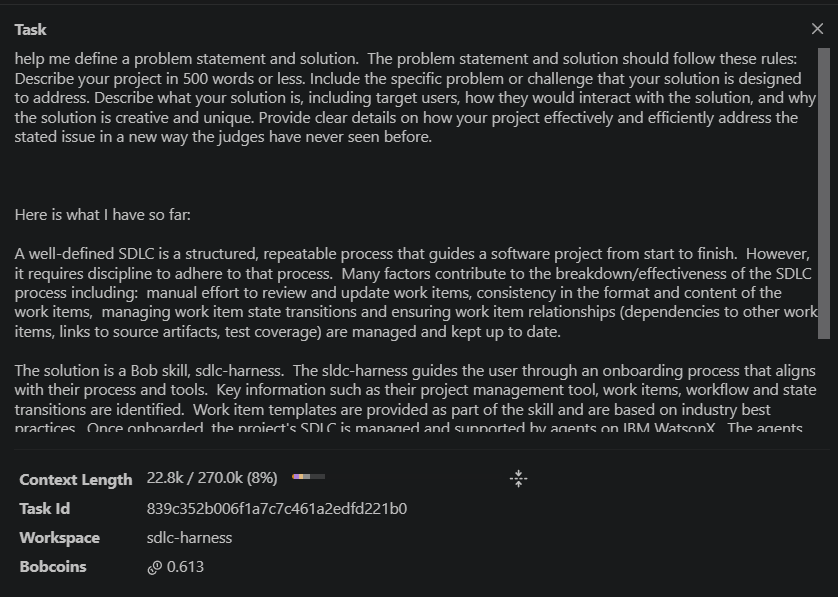
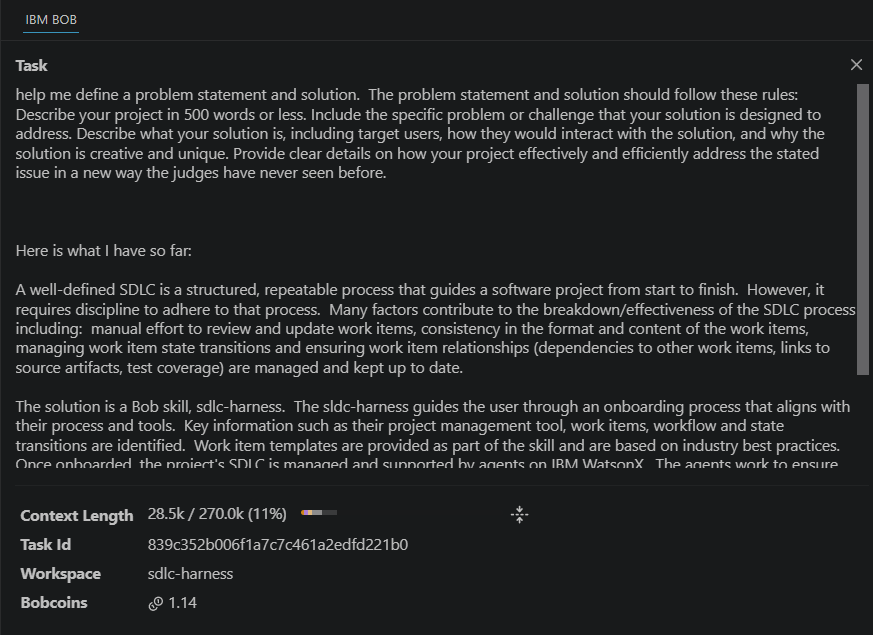
problem and todo updates

diff --git a/PROBLEM_STATEMENT.md b/PROBLEM_STATEMENT.md
@@ -20,4 +20,4 @@ Most governance tools are reactive. They flag a missing field after a developer 
 
 ## Measuring Success
 
-Success is visible in three places. First, backlog quality: fewer work items missing acceptance criteria, fewer vague descriptions reaching active development, fewer broken dependency links surfacing during audits or handoffs. Second, trust: if developers accept more agent suggestions over time rather than editing or rejecting them, the system is learning team conventions and earning its place. If the acceptance rate stagnates, the agents are adding noise instead of removing it. Third, time: how much less of each sprint do developers and product managers spend manually cleaning up work items? How quickly can a team produce a traceable, audit-ready picture of a release? Those are the exact costs named above, and they should be shrinking sprint over sprint.
+Success is visible in three places. First, backlog quality: fewer work items missing acceptance criteria, fewer vague descriptions reaching active development, fewer broken dependency links surfacing during audits or handoffs, and fewer stories or bugs transitioning to Done without a corresponding test link. Second, trust: if developers accept more agent suggestions over time rather than editing or rejecting them, the system is learning team conventions and earning its place. If the acceptance rate stagnates, the agents are adding noise instead of removing it. Third, time: how much less of each sprint do developers and product managers spend manually cleaning up work items? How quickly can a team produce a traceable, audit-ready picture of a release? Those are the exact costs named above, and they should be shrinking sprint over sprint.
